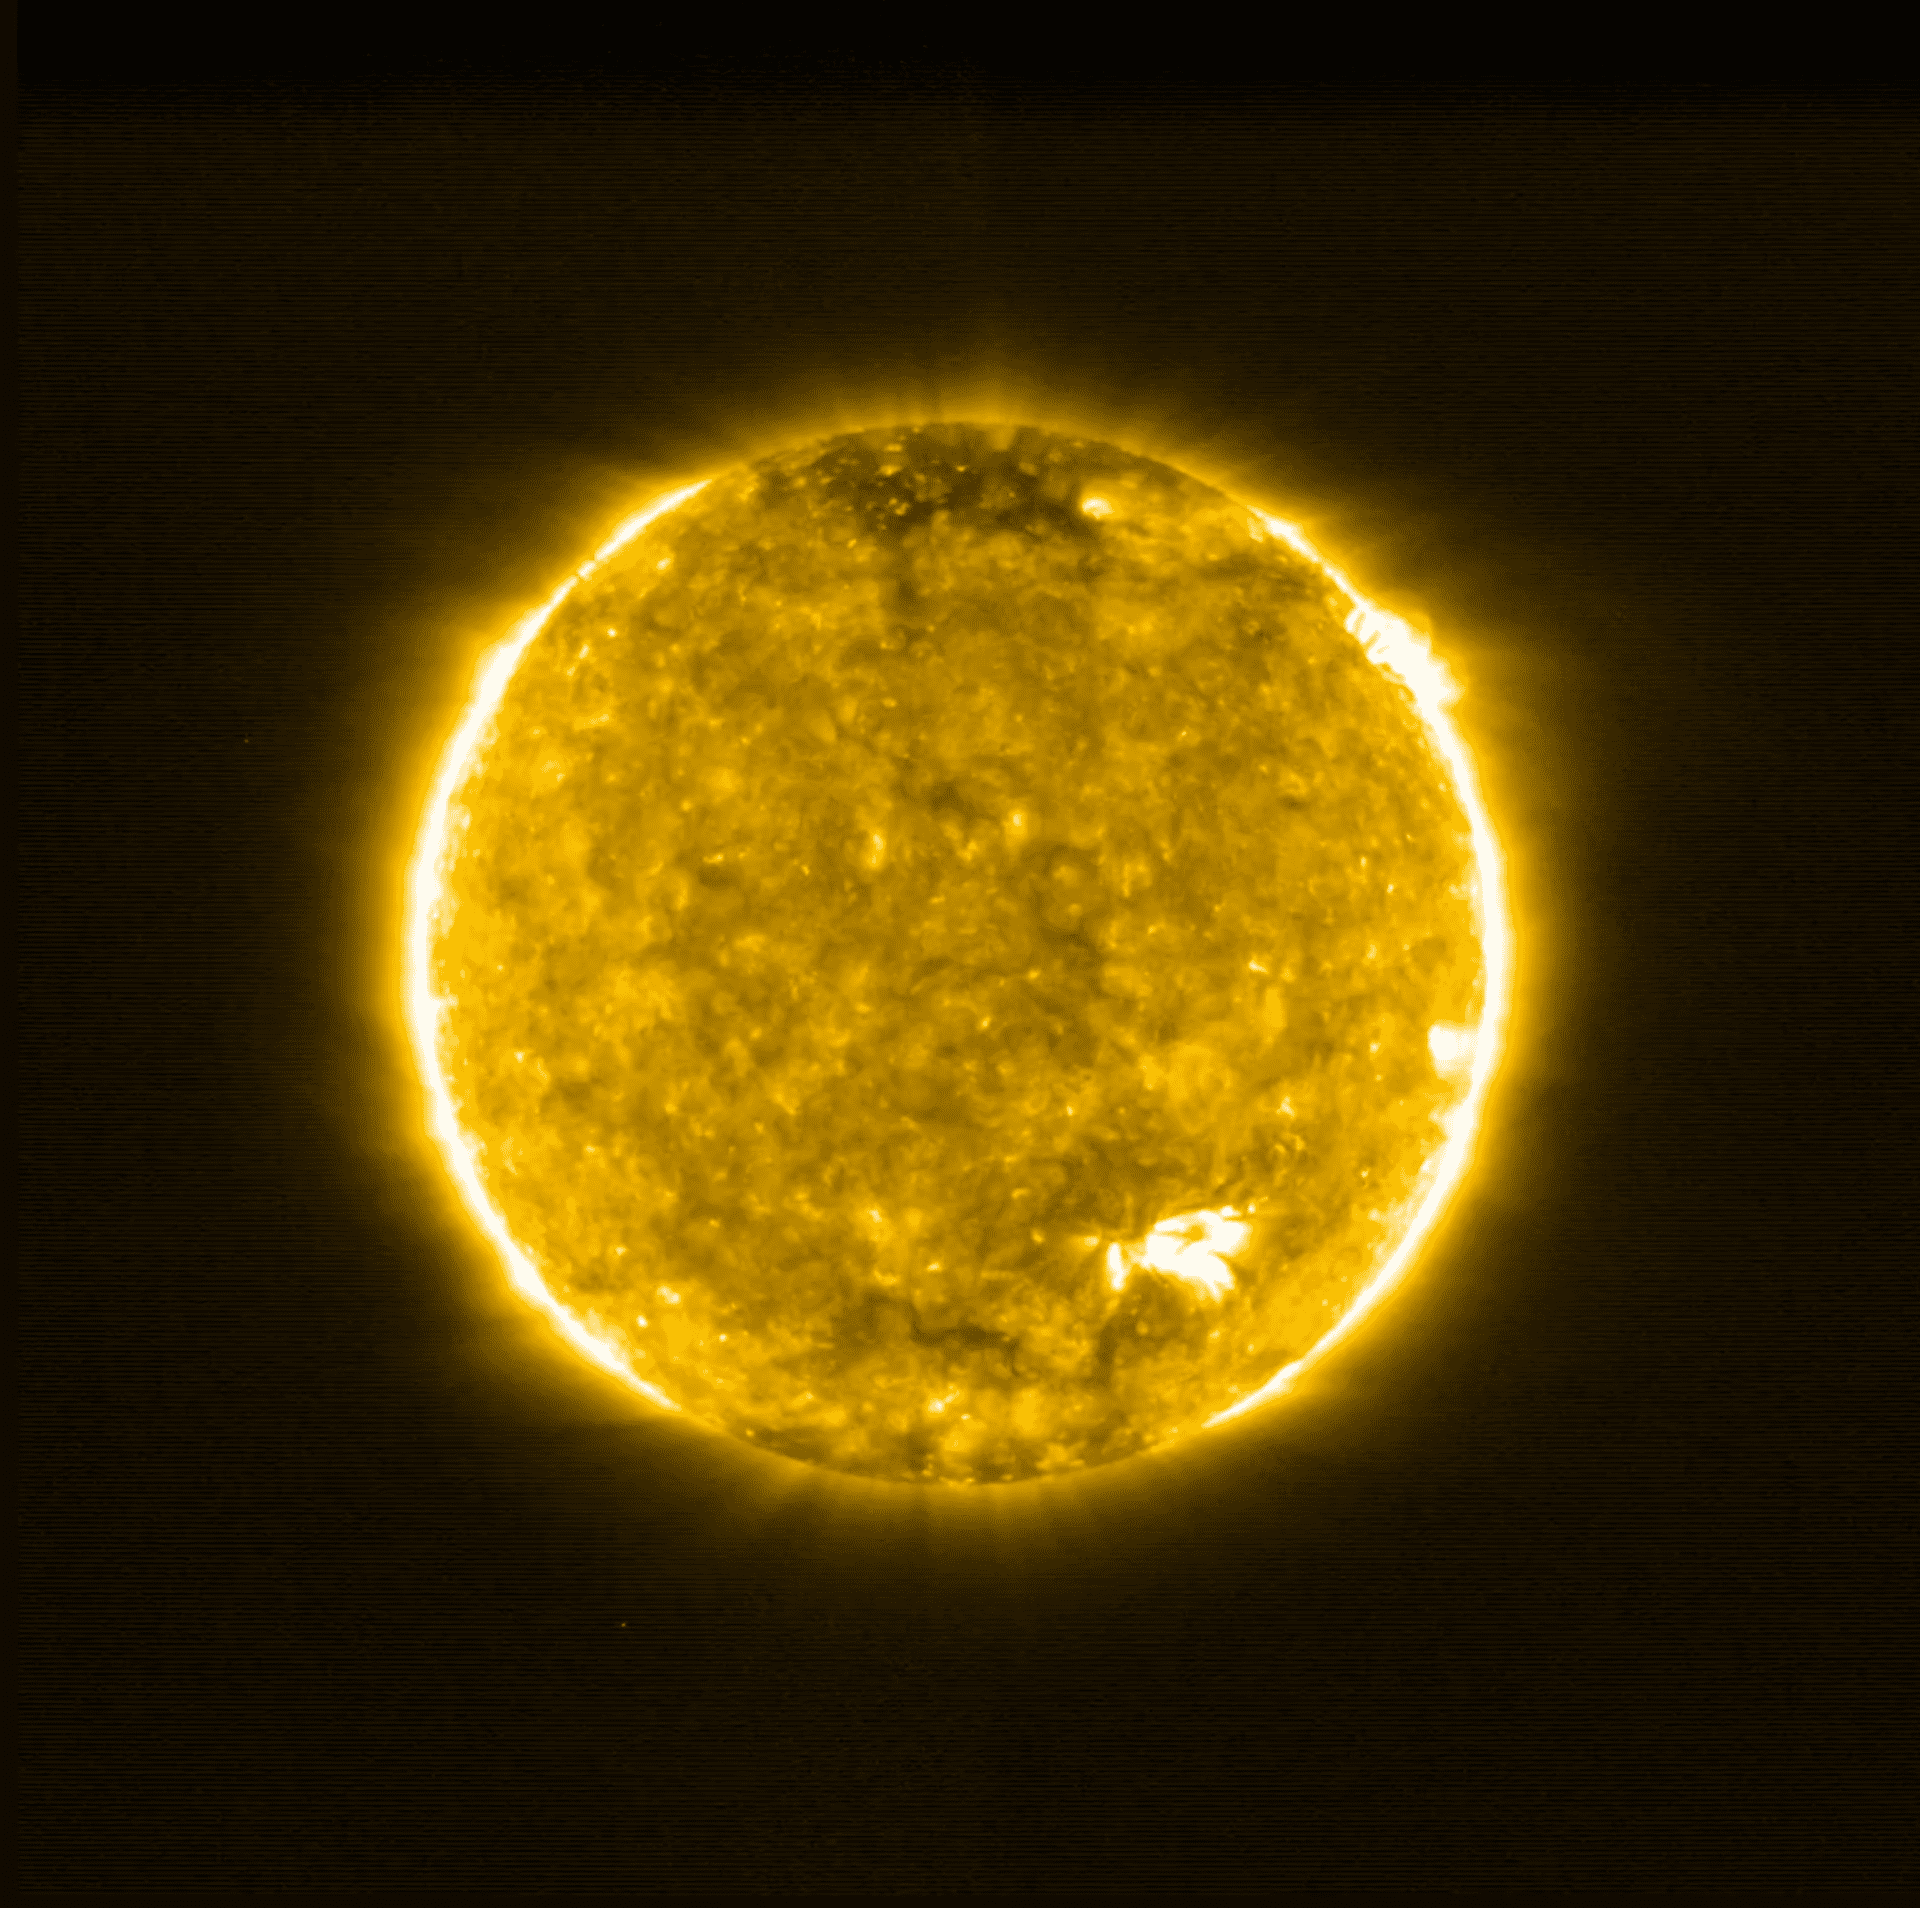
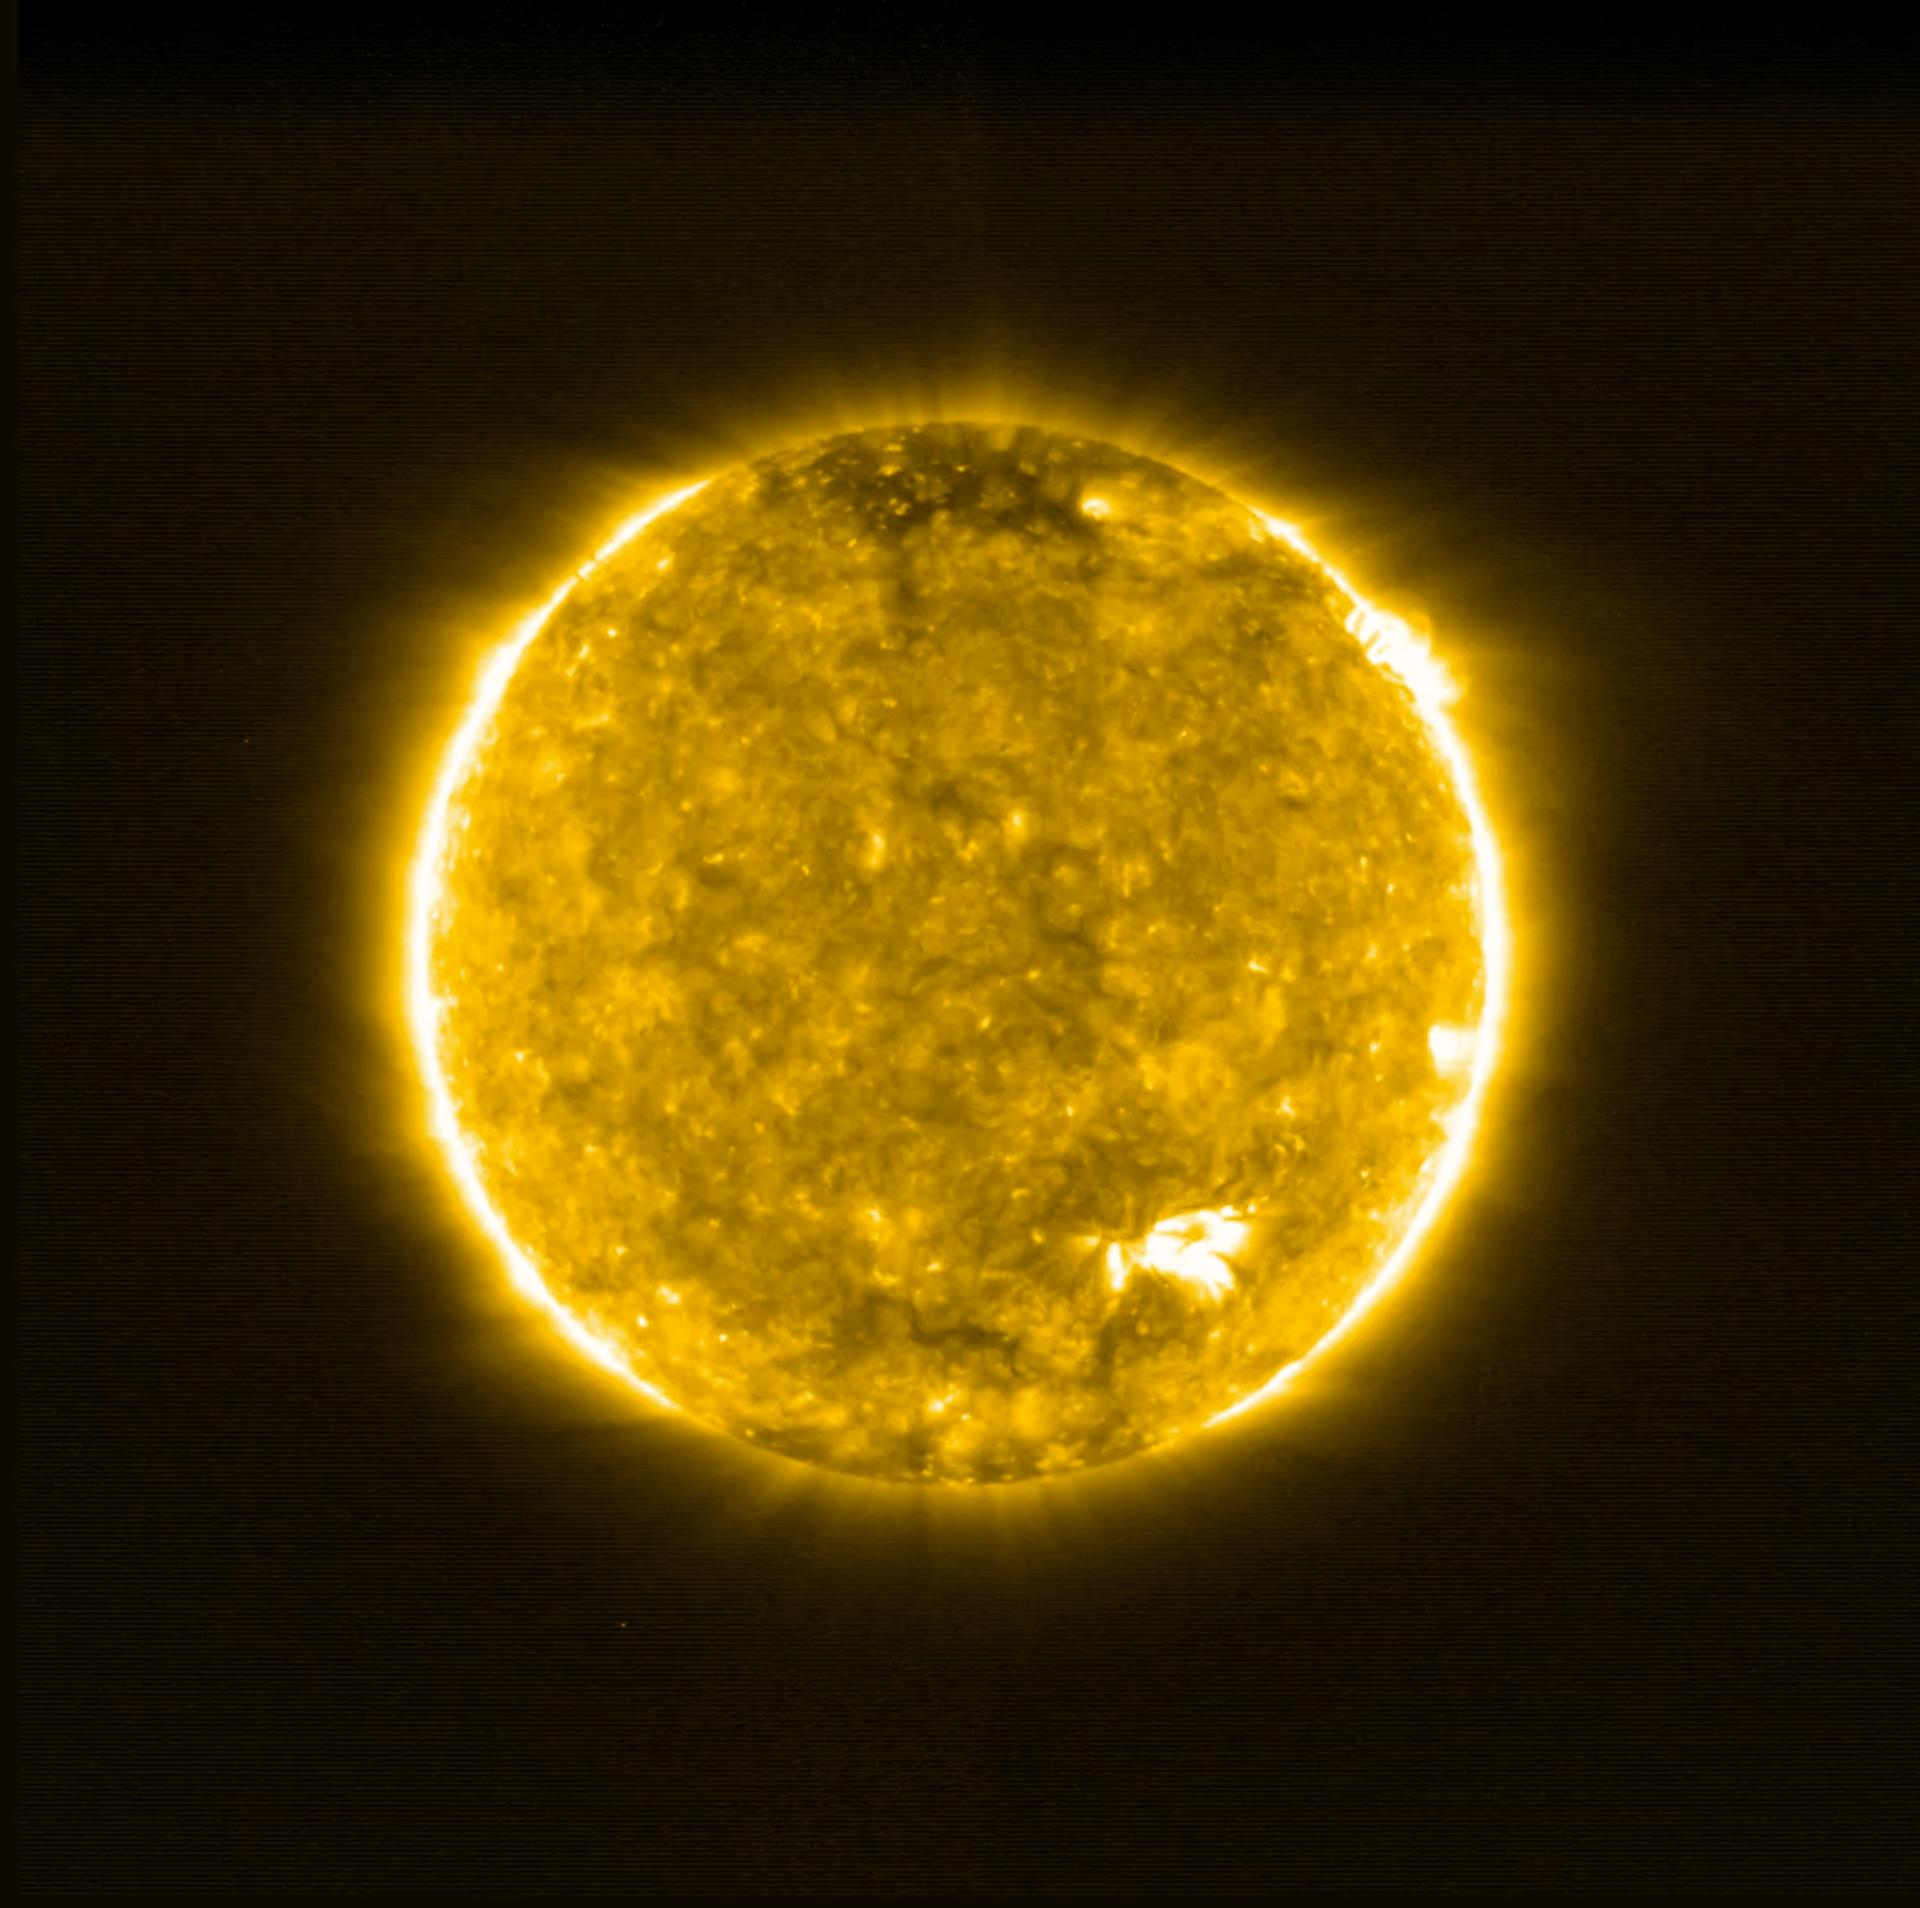
fix(optimization): fixed png optimization, removed quality option

diff --git a/tools/webpConvert.js b/tools/webpConvert.js
@@ -115,9 +115,7 @@ const startWatch = function (watcher) {
                                     imageminMozjpeg({
                                         quality: config.jpegQuality,
                                     }),
-                                    imageminPngquant({
-                                        quality: config.pngQuality,
-                                    }),
+                                    imageminPngquant(),
                                 ],
                             })
                         )
@@ -207,9 +205,7 @@ const walkSync = function (dir) {
                                 imageminMozjpeg({
                                     quality: config.jpegQuality,
                                 }),
-                                imageminPngquant({
-                                    quality: config.pngQuality,
-                                }),
+                                imageminPngquant(),
                             ],
                         })
                     )
@@ -251,9 +247,9 @@ const buildImages = function () {
                 walkSync(dest.substring(0, dest.length - 1));
 
                 if (needToWatch) {
+                    // adding watcher to serve images in ./src/assets/images
                     startWatch(watcherObj);
                 }
-                // adding watcher to serve images in ./src/assets/images
             });
         });
 };

diff --git a/tools/image.optimization.config.js b/tools/image.optimization.config.js
@@ -2,7 +2,6 @@ module.exports = {
     makeWebp: true, // option to make or not to make .webp images during the process of optimization
     src: './src/assets/images/', // src folder. Must exist
     dest: './public/images/', // destination folder. Must exist
-    pngQuality: [0.6, 0.8], // pngquant quality option (https://www.npmjs.com/package/imagemin-pngquant#quality)
     webpQuality: 80, // webp quality in percents
     jpegQuality: 90, // jpg quality in percents
     logLevel: 'verbose', //

diff --git a/src/assets/images/README.md b/src/assets/images/README.md
@@ -1,0 +1,4 @@
+# IMAGES
+
+В данной директории хранятся ИСХОДНИКИ картинок (не нарезанные и не оптимизированные).
+

diff --git a/public/fonts/README.md b/public/fonts/README.md
@@ -1,0 +1,3 @@
+# FONTS
+
+В данной директории хранятся шрифты
